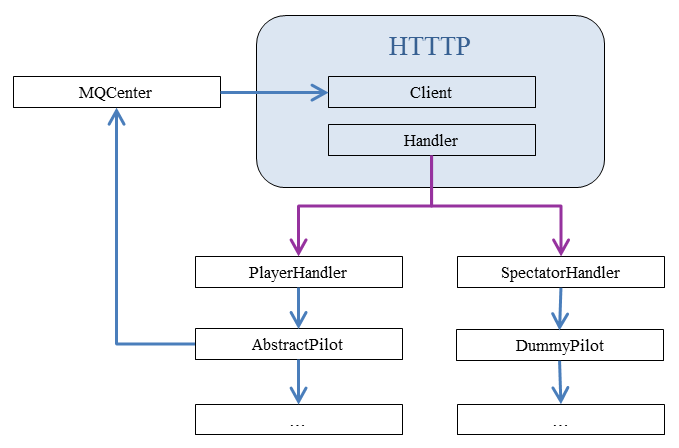
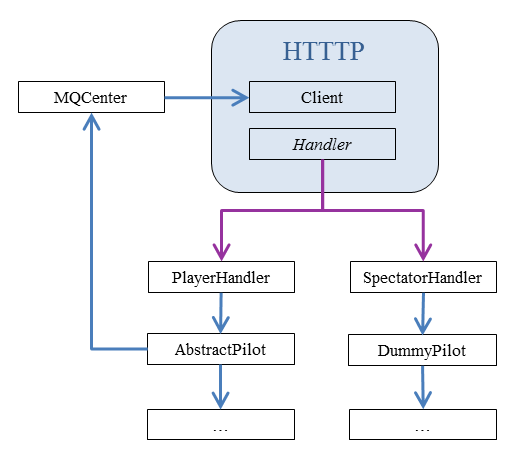
verslag gelezen tot simulator

Changed region(s): [[0.0, 0.0312, 0.9846, 0.9688], [0.6462, 0.9062, 0.9846, 0.9688], [0.4615, 0.2812, 0.4923, 0.3438]]

diff --git a/SilverSurferVerslag/Verslag demo 5/Verslag demo 5.tex b/SilverSurferVerslag/Verslag demo 5/Verslag demo 5.tex
@@ -230,7 +230,7 @@ Een overzicht van het ontwerp wordt weergegeven in figuur \ref{fig:klasSoft}.\\
 \label{fig:klasSoft}
 \end{figure}
 
-De Main-methode bevindt zich in de GUI-klasse. Deze maakt een \textit{SimulatorPanel}-object aan. Dit is een overkoepelend panel waarin meerdere \textit{Viewports} zitten. Een \textit{OverallViewport} geeft het volledige doolhof en alle robots erin weer. Dit kan uiteraard enkel wanneer een gekend virtueel doolhof gebruikt wordt en wanneer van alle robots genoeg informatie beschikbaar is. Een \textit{UnitViewport} geeft de wereld van \'e\'en robot (eventueel gesimuleerd) weer: de sensorwaarden en de muren die hij reeds ontdekt heeft. Een wereld waarvan niets geweten is, kan niet worden weergegeven. Dit is het geval voor robots van andere teams: zij worden niet weergegeven in de GUI, met uitzondering van de teamgenoot. Deze laatste stuurt wel zijn map door, maar niet zijn sensorwaarden en wordt gerepresenteerd door een \textit{DummyViewPort}. Het aantal \textit{Viewports} hangt af van het aantal gekende werelden.\\
+De Main-methode bevindt zich in de GUI-klasse. Deze maakt een \textit{SimulatorPanel}-object aan. Dit is een overkoepelend panel waarin meerdere \textit{Viewports} zitten. Een \textit{OverallViewport} geeft het volledige doolhof en alle robots erin weer. Dit kan uiteraard enkel wanneer een gekend virtueel doolhof gebruikt wordt en wanneer van alle robots genoeg informatie beschikbaar is. Een \textit{UnitViewport} geeft de wereld van \'e\'en robot (eventueel gesimuleerd) weer: de sensorwaarden en de muren die hij reeds ontdekt heeft. Een wereld waarvan niets geweten is, kan niet worden weergegeven. Dit is het geval voor robots van andere teams: zij worden niet weergegeven in de GUI, met uitzondering van de teamgenoot. Deze laatste stuurt wel zijn map door, maar niet zijn sensorwaarden en wordt gerepresenteerd door een \textit{DummyViewport}. Het aantal \textit{Viewports} hangt af van het aantal gekende werelden.\\
 
 Een \textit{DummyViewport} is aanvankelijk leeg. Wie de teamgenoot van de robot is, wordt immers pas bekend wanneer beide leden van het team hun voorwerp gevonden hebben. Op dat moment zal de \textit{DummyViewport} iets weergeven.\\
 
@@ -243,39 +243,38 @@ Elke \textit{Viewport} krijgt een eigen \textit{Pilot} toegewezen (behalve \text
 % figuur GUI
 \begin{figure}[h]
 \centering
-	\includegraphics[width=0.8\textwidth]{GUInew}
-\caption{de Graphical User Interface}
-\label{fig:GUI}
+	\includegraphics[width=0.8\textwidth]{GUI1}
+\caption{de Graphical User Interface met drie gesimuleerde robots}
+\label{fig:GUI1}
 \end{figure}
 
-De GUI van deze demo werkt voorlopig niet dus is hier geen foto van beschikbaar. De figuur van de GUI zoals deze er in de vorige demo uit zag, wordt weergegeven in figuur \ref{fig:GUI}.\\
+% figuur GUI
+\begin{figure}[h]
+\centering
+	\includegraphics[width=0.8\textwidth]{GUI2}
+\caption{de Graphical User Interface met infopanel, inputpanel en sensorgrafieken}
+\label{fig:GUI2}
+\end{figure}
 
-Het eerste doolhof is de overal \textit{Vieuwport} met de vier verschillende robotten.  De objecten worden voorgesteld door gekleurde bollen. Elke robot heeft initieel een eigen kleur, weergegeven als een gekleurde cirkel onder de robot. Zo is gemakkelijk te zien welk object bij welke robot hoort. Wanneer een robot zijn object gevonden heeft, zal zijn kleur veranderen in de teamkleur. Wanneer alle robots hun object gevonden hebben, zullen er dus twee teams van twee robots zijn, elk met dezelfde kleur.
+Figuren \ref{fig:GUI1} en \ref{fig:GUI2} tonen de GUI bij verschillende instellingen. De GUI toont links de \textit{OverallVieuwport}: de volledige map met alle robots, voorwerpen en barcodes erin. Elke robot heeft initieel een eigen kleur. Deze kleur komt overeen met het voorwerp dat de robot moet zoeken. Wanneer een robot zijn voorwerp gevonden heeft, verandert zijn kleur in de teamkleur. Op het einde hebben de robots van hetzelfde duo dezelfde kleur.\\
 
-%De GUI zal er wat anders uitzien dan vorig semester. Het moet nu immers mogelijk zijn de wereld van meerdere robots tegelijk weer te geven. Deze werelden verschillen van elkaar: zeker in het begin verkennen de verschillende robots een ander deel van het doolhof. Omdat zowel beginpositie als -ori\"entatie niet gekend zijn, is het niet mogelijk al deze werelden in \'e\'en paneel weer te geven. Het \textit{SimulatorPanel} wordt opgedeeld in verschillende \textit{Viewports}. Zoals uitgelegd in sectie \ref{ssec:Sdesign} hangt het aantal \textit{Viewports} af van de situatie.\\
+Rechts worden de \textit{UnitViewports} en \textit{DummyViewports} weergegeven. Wanneer de robot een pad aflegt, tekenen de \textit{Viewports} dit als een rode lijn. De huidige positie en de huidige ori\"entatie van de robot worden weergegeven door een figuur die draait met de ori\"entatie. Het bereik van de ultrasone sensor wordt grafisch weergegeven met een blauwe boog. Een \textit{DummyViewport} geeft geen sensorwaarden weer. De map-in-opbouw wordt weergegeven op basis van de map die de \textit{Pilot} opstelt. Alle tegels die in de map zitten worden oranje gekleurd. De robot heeft deze tegels niet altijd bezocht, maar weet wel van hun bestaan af. Dit is handig bij het testen van verkenalgoritmes.\\
 
-%Objecten worden voorgesteld door gekleurde bollen. Elke robot heeft initieel een eigen kleur, weergegeven als een gekleurde cirkel onder de robot. Zo is gemakkelijk te zien welk object bij welke robot hoort. Wanneer een robot zijn object gevonden heeft, zal zijn kleur veranderen in de teamkleur. Wanneer alle robots hun object gevonden hebben, zullen er dus twee teams van twee robots zijn, elk met dezelfde kleur.
-
-Wanneer de robot een pad aflegt, tekent de \textit{UnitViewport} dit in het tekenpaneel als een rode lijn (herschaald: \'e\'en cm = \'e\'en pixel). De lijnen worden als lijnen opgeslagen in de \textit{UnitViewport}. Wanneer de robot een rechte weg aflegt, wordt het eindpunt van de gedefinieerde lijn steeds verlegd. Dit zorgt ervoor dat de weg die de robot aflegt continu bijgewerkt wordt. De huidige positie en de huidige ori\"entatie van de robot worden weergegeven door een driehoek die draait met de ori\"entatie. Het bereik van de ultrasone sensor wordt grafisch weergegeven met een blauwe boog. De lichtsensor wordt voorgesteld als een bol die van kleur verandert wanneer de ondergrond wijzigt. 
-Een \textit{DummyViewport} geeft geen pad of sensorwaarden weer, enkel een map. De map-in-opbouw wordt weergegeven op basis van de map die de \textit{Pilot} opstelt.\\
-
-Al deze \textit{Viewports} nemen plaats in, waardoor andere functionaliteiten van de GUI naar de achtergrond moeten verdwijnen. De sensorgrafieken, bijvoorbeeld, zullen nog beschikbaar zijn, maar worden enkel zichtbaar wanneer deze via een menu expliciet geopend worden. Zo kunnen ze nog steeds gebruikt worden voor testen.
-
-
+Het aantal \textit{UnitViewports} of \textit{DummyViewports} hangt af van de situatie. Dit kan makkelijk worden ingesteld via de menubar. Het is ook mogelijk extra panelen te laten verschijnen die sensorwaarden op een grafiek en in cijfers weergeven. Ook het paneel om de robot handmatig te besturen kan tevoorschijn gehaald wordt via de menubar. Dit is te zien in figuur \ref{fig:GUI2}.
 
 % -- RabbitMQ -- %
 \subsection{Communicatie via RabbitMQ}
 \label{ssec:RabbMQ}
-De scheidsrechterscommissie ontwikkelde \textit{Het Team Treasure Trek Protocol (HTTTP)} en een implementatie ervan. De implementatie bevat o.a. een \textit{Client}-klasse die het gebruik van RabbitMQ bijna volledig abstraheert. Ook een \textit{Handler}-interface is voorzien. Deze moet door de teams zelf ge\"implemeteerd worden.\\
+De scheidsrechterscommissie ontwikkelde \textit{Het Team Treasure Trek Protocol (HTTTP)} en een implementatie ervan. De implementatie bevat o.a. een \textit{Client}-klasse die het gebruik van RabbitMQ bijna volledig abstraheert. Ook een \textit{Handler}-interface is voorzien. Deze moet door de teams zelf ge\"implemeteerd worden. Figuur \ref{fig:KlasHTTTP} toont een schema van de implementatie.\\
 
-Het computerproject bevat een \textit{PlayerHandler} en een \textit{SpectatorHandler}, om respectievelijk in de \textit{AbstractPilot} en de \textit{DummyPilot} met informatie om te gaan. Een onderscheid is nodig omdat \textit{DummyPilots} niet aangestuurd kunnen worden. Figuur \ref{fig:KlasHTTTP} geeft een overzicht van de softwarearchitectuur.
+Het computerproject bevat een \textit{PlayerHandler} en een \textit{SpectatorHandler}, om respectievelijk in de \textit{AbstractPilot} en de \textit{DummyPilot} met informatie om te gaan. Een onderscheid is nodig omdat \textit{DummyPilots} niet aangestuurd kunnen worden.\\
 
 Bij het aanmaken van een \textit{Pilot} wordt een \textit{MQCenter} aangemaakt met bijhorende \textit{Handler}. Het \textit{MQCenter} abstraheert de \textit{Client}-klasse nog verder.
 
 % klassendiagram HTTTP
 \begin{figure}[h]
 \centering
-	\includegraphics[width=0.8\textwidth]{KlasHTTTP}
+	\includegraphics[width=0.5\textwidth]{KlasHTTTP}
 \caption{Klassendiagram HTTTP}
 \label{fig:KlasHTTTP}
 \end{figure}
